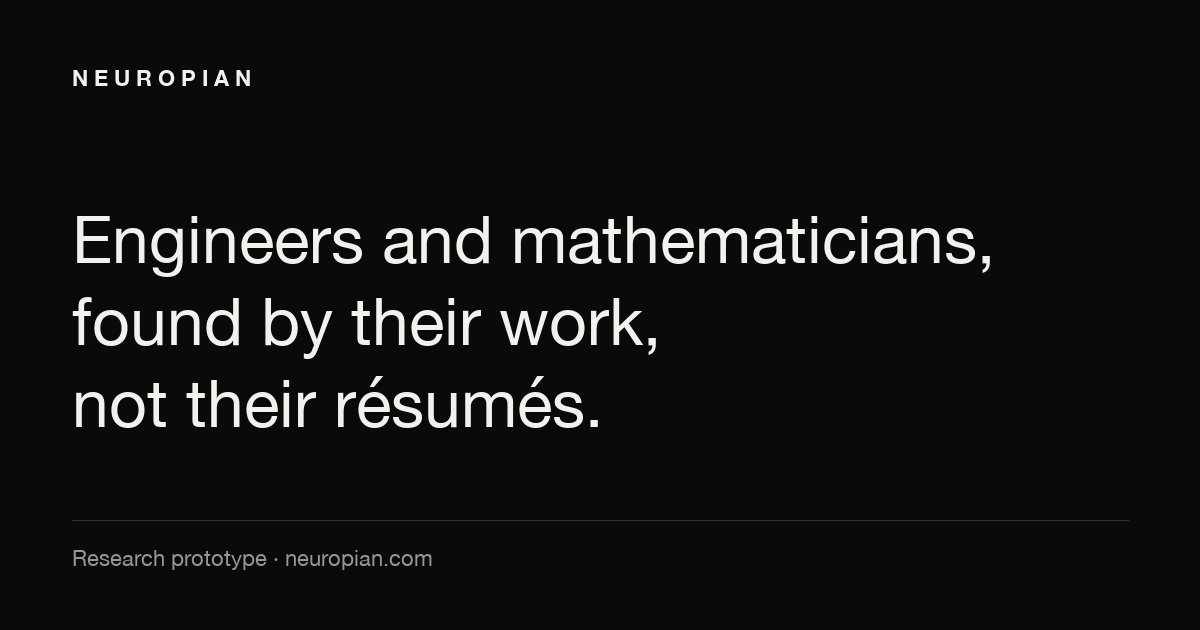
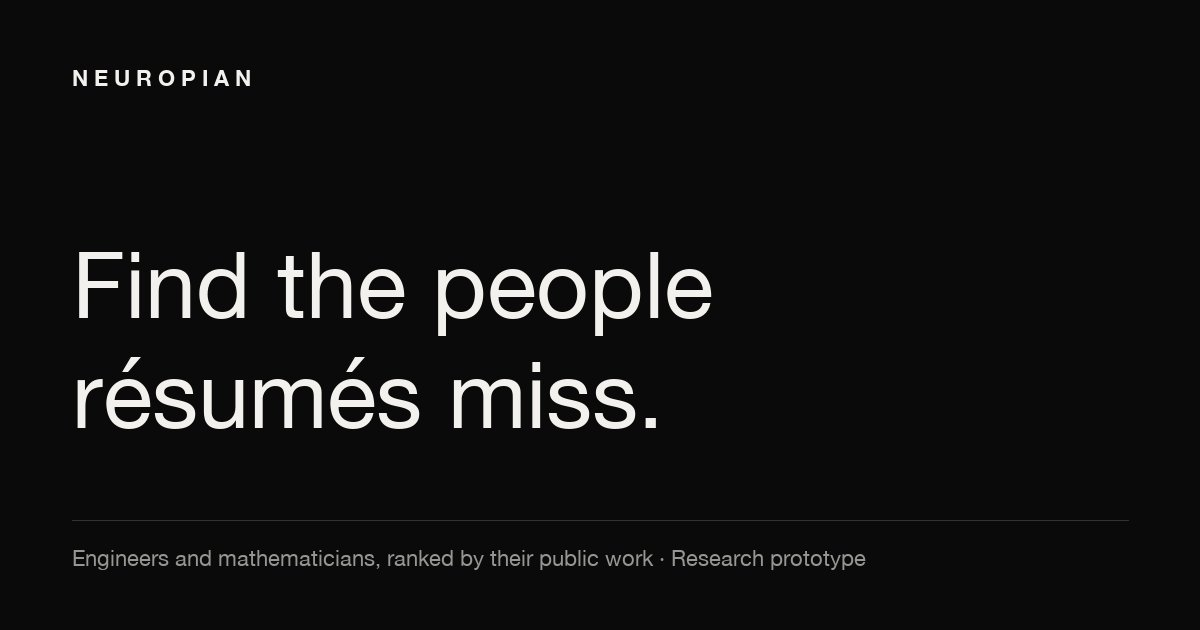
Site: hero C ('Find the people résumés miss.'), OG card; builders numbers from the improved finder (CPython 21, removals by reason, back-test 2,721/156/0.641); Codeforces list now ranked by the tested formula

Changed region(s): [[0.0617, 0.3317, 0.8325, 0.6937], [0.0617, 0.8746, 0.74, 0.9048]]

diff --git a/index.html b/index.html
@@ -9,7 +9,7 @@
 <meta property="og:type" content="website">
 <meta property="og:url" content="https://neuropian.com/">
 <meta property="og:title" content="Neuropian">
-<meta property="og:description" content="Engineers and mathematicians, found by their work, not their résumés.">
+<meta property="og:description" content="Find the people résumés miss. Engineers and mathematicians, ranked by their public work.">
 <meta property="og:image" content="https://neuropian.com/assets/og.jpg">
 <meta property="og:image:width" content="1200">
 <meta property="og:image:height" content="630">
@@ -148,7 +148,7 @@ footer .wrap{display:flex;justify-content:space-between;gap:16px;flex-wrap:wrap}
 
 <section class="hero" id="top">
   <div class="wrap">
-    <h1>Engineers and mathematicians, found by their work, not their résumés.</h1>
+    <h1>Find the people résumés miss.</h1>
     <p class="lede">Being built for firms that hire engineers and quantitative researchers, and for people who want their work found.</p>
     <p class="status">Research prototype · one founder · no clients yet</p>
     <div class="figures">
@@ -181,7 +181,7 @@ footer .wrap{display:flex;justify-content:space-between;gap:16px;flex-wrap:wrap}
             <li><strong>Test.</strong> Frozen and applied to the 2024 cohort: 0.647 within 100-point bands (rating: 0.599), 0.632 within 10-point bands. Overall, rating alone scores 0.896 (95% CI 0.878–0.913) and rating + 0.2 × score 0.908. Paired bootstrap of the gain, 1,000 resamples: +0.005 to +0.019, none at or below zero.</li>
             <li><strong>Who keeps competing.</strong> 37% of the 2024 cohort played no rated contest afterwards. Grouping players by contests played afterwards as well as by rating, the score's AUC falls to 0.613.</li>
             <li><strong>Earlier, in-sample runs.</strong> Traits chosen and scored on the same players: 0.655 (2024 start), 0.668 (2023 start, three-year window). Our first formula, rating plus 12-month gain, scored 0.879 overall, below rating alone.</li>
-            <li><strong>Not yet tested.</strong> The AtCoder and Math Stack Exchange lists, and the scout's current ranking, which combines these signals differently.</li>
+            <li><strong>Live list.</strong> The scout's Codeforces list is ranked by this tested formula, among players rated 2100 or more with at most 60 followers. The test covered players rated 1600–2300, so the top of the list is beyond what was tested. The AtCoder and Math Stack Exchange lists are not back-tested.</li>
             <li><strong>AUC</strong> = the probability that a randomly chosen player who broke through is ranked above one who did not. Within-band AUC is averaged across bands, weighted by the number who broke through; a band needs at least 3 who did and 3 who didn't.</li>
           </ul>
         </details>
@@ -196,13 +196,13 @@ footer .wrap{display:flex;justify-content:space-between;gap:16px;flex-wrap:wrap}
       </div>
       <div>
         <div class="stat"><b>150</b><span>people identified. Each has 6 or more merged pull requests in the past 12 months (rule: 3 or more); none has more than 148 GitHub followers (rule: 150).</span></div>
-        <p class="finding">From LLVM (68), llama.cpp (38), Rust (10), DuckDB (9), NumPy (7), SciPy (7), Julia (6) and tinygrad (5). CPython and JAX were searched too.</p>
+        <p class="finding">From LLVM (67), llama.cpp (33), CPython (21), Rust (8), SciPy (6), NumPy (5), tinygrad (5), Julia (4) and DuckDB (1). JAX was searched too.</p>
         <details>
           <summary>Method and numbers</summary>
           <ul>
-            <li><strong>Rules.</strong> 3 or more merged pull requests in the 12 months to 17 Oct 2026, and no more than 40 per active month; 150 GitHub followers or fewer. Removed: bots, anyone who has pressed merge in that project, and people whose profile or public organizations name a large tech company, elite university or top trading firm. Half of the 150 have 12 or fewer followers.</li>
-            <li><strong>Merge rights.</strong> The 140 outside Rust have not pressed merge on any pull request in their project in the history fetched (since Oct 2023; tinygrad since Oct 2025). Committers who push directly would not show up this way, and Rust merges through a bot, so its 10 can't be checked at all.</li>
-            <li><strong>Why we don't call it prediction.</strong> In eight of the projects (not Rust or tinygrad), 2,722 people had merged pull requests between Oct 2023 and Oct 2024 and had not pressed merge or approved anyone else's. 156 pressed merge in the two years after, a sign they had been given write access; 135 of them in LLVM. Merged-PR count alone ranks them with AUC 0.622. Lines per pull request, and months active, tenure and days to merge (in reverse), looked informative in-sample but couldn't be tested out of sample: split by project, one half holds only 3 of the 156. So the list is ranked by merged-PR count, standardized within each project, and it shows the work.</li>
+            <li><strong>Rules.</strong> 3 or more merged pull requests in the 12 months to 17 Oct 2026, no more than 40 per active month, and 150 GitHub followers or fewer. Removed: bots; anyone who has pressed merge in that project or another one searched; public members of major open-source organizations, including the project's own; people whose profile names a large tech company, the project's sponsor, or an elite university or trading firm; owners of a repository with 1,000 or more stars; and profiles that suggest a minor. Of 268 profiles examined, 118 were removed: 59 for followers, 29 for organization membership, 28 for company or sponsor, 1 as a committer elsewhere, 1 as a possible minor. Half of the 150 have 12 or fewer followers.</li>
+            <li><strong>Merge rights.</strong> The 142 outside Rust have not pressed merge on any pull request in their project in the history fetched (since Oct 2023; tinygrad since Oct 2025), and none is a public member of the project's organization. A committer who pushes directly and keeps membership private would still slip through. Rust merges through a bot, so for its 8 only organization membership is checked.</li>
+            <li><strong>Why we don't call it prediction.</strong> In eight of the projects (not Rust or tinygrad), 2,721 people had merged pull requests between Oct 2023 and Oct 2024 and had not pressed merge or approved anyone else's. 156 pressed merge in the two years after, a sign they had been given write access; 135 of them in LLVM. Merged-PR count alone ranks them with AUC 0.641 (LLVM alone: 0.64). Lines per pull request, and months active, tenure and days to merge (in reverse), looked informative in-sample but couldn't be tested out of sample: split by project, one half holds only 3 of the 156. So the list is ranked by merged-PR count, standardized within each project, and it shows the work.</li>
           </ul>
         </details>
       </div>
